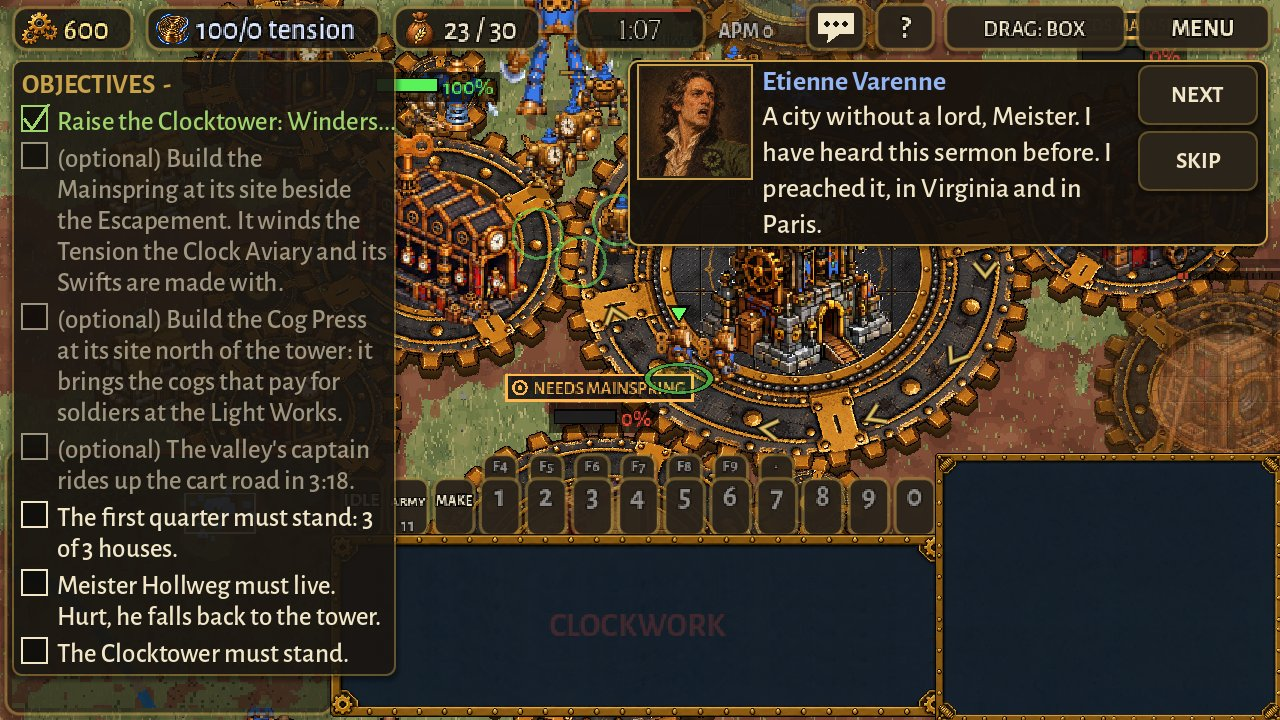
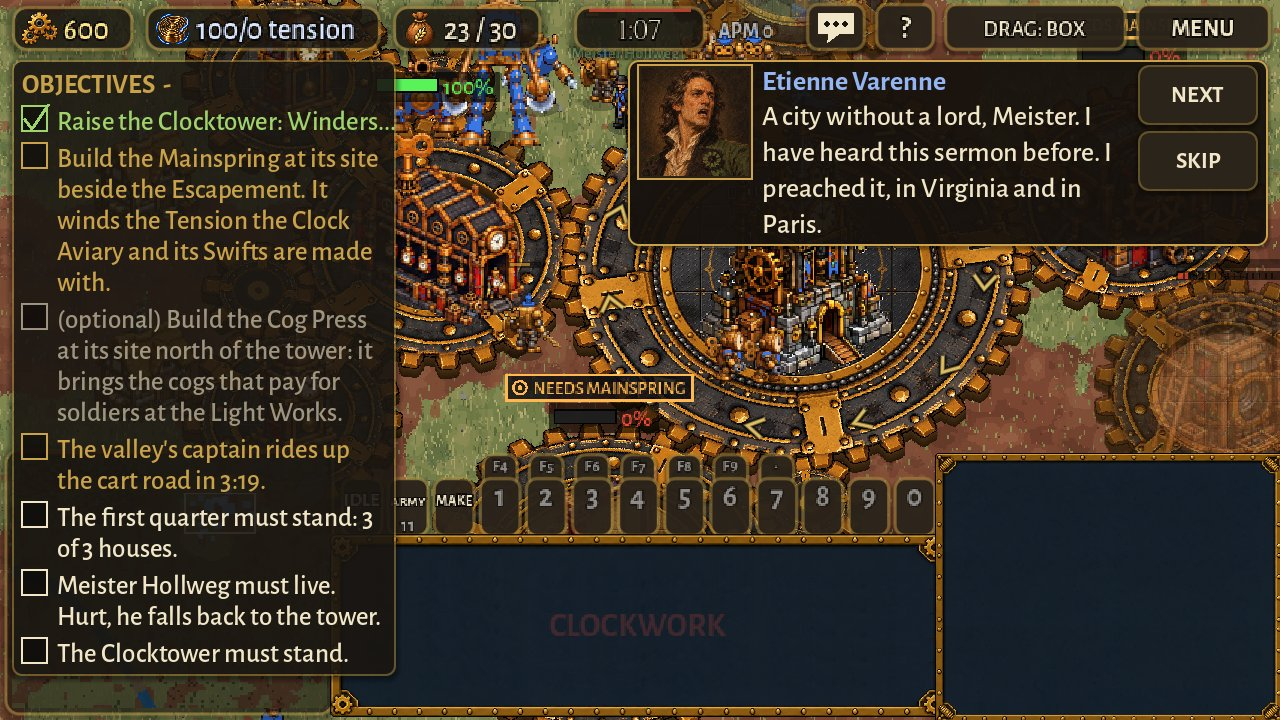
DONE: d04-concordia: Act 2's The City of Gears built: map campaign:concordia (highlands), the guild founds Concórdia, K5 Clock Aviary + Swift, THE UNMAPPED, the parley or the raid, the spared night crowds (TURN THEM BACK, the valley's temper, Padre Anselmo), the crates of 2767 and their creeping pla
Claude-Session: https://claude.ai/code/session_01NtmEZhP1uA8k4DLQ7BYfMz

diff --git a/CLAUDE.md b/CLAUDE.md
@@ -26,6 +26,15 @@
 
 ## Current work
 
+- d04_concordia BUILT (job d04-concordia, branch d04-concordia, docs/campaign_d04_build.md): Act 2 step 6, "The City of
+  Gears" (the Clockmaker after d02, 2773, the southern highlands): map campaign:concordia (HIGHLANDS biome,
+  tools/campaign/make_concordia_map.py), mission tools/campaign/make_d04_mission.py; the guild raises Concórdia on a dead
+  mine; K5 = CLOCK AVIARY + SWIFT (Cuco in pt/es); THE UNMAPPED (`chart` / `charted`: land dark and people hidden until a
+  flyer has seen it); the captain PARLEYS (a04 melted) or raids (kept); the night's crowds are SPARED: TURN THEM BACK,
+  put fires out, THE VALLEY'S TEMPER, Padre Anselmo calls them home; the crates of 2767 opened in the gallery (the
+  plates' gear ground creeps); the dawn attack. Flags `colonists` parley/fought, `crates` opened. Versus only (the valley).
+  Hollweg's growth noted in the doc. Tests tools/test_campaign_d04.gd, sim tools/sim_campaign_d04.gd. 15 Claude's
+  choices. Patch note under 0.38.999.
 - THE WAR MAP's ACT 2 (job act2-warmap, branch act2-warmap, docs/war_map_act2.md; Act 2 build step 4): the BRAZIL view
   (opens after a07; drawn, slot painted_brazil.jpg), Act 2's regions/marks/pins d01-d13 (planned ones with an `about`
   line) and rules by the plan's flags (tools/campaign/warmap_act2.py writes them), new holder `guild` (the free city),

diff --git a/docs/campaign_d04_build.md b/docs/campaign_d04_build.md
@@ -168,7 +168,13 @@ Ulrich is already on the list from d02.
 
 ## Pictures (docs/shots/d04_concordia/, CHECK THE FEEL)
 
-PICTURES_NOTE
+The sim's `shots=` under xvfb-run at 1280x720 (`--fixed-fps 10` so a run takes ten minutes), NORMAL: 1 start, 2 the
+tower, 3 the Aviary, 4 a Swift mapping a way (the unmapped land darker round it), 5 the raid, 6 TURNED BACK over the
+crowd at night, 7 the night, 8 Padre Anselmo, 9 the crates (the mid-mission show with its stand-in still), 10 the plates, 11 the dawn attack, 12 won; `parley.jpg`
+from a run with a04 melted (Hollweg, Varenne and the captain on the road). What reads well: the night tint, the dark
+over the unmapped land, the TURNED BACK words, the parley's three figures. What could be better: the objectives
+panel is tall in Part 2 (the temper's line is long: it folds once done), the supply shows 31/30 after the crates' men
+(they come over the cap on purpose), and a shot taken while a show pauses the game shows PAUSED.
 
 ## What is placeholder
 
